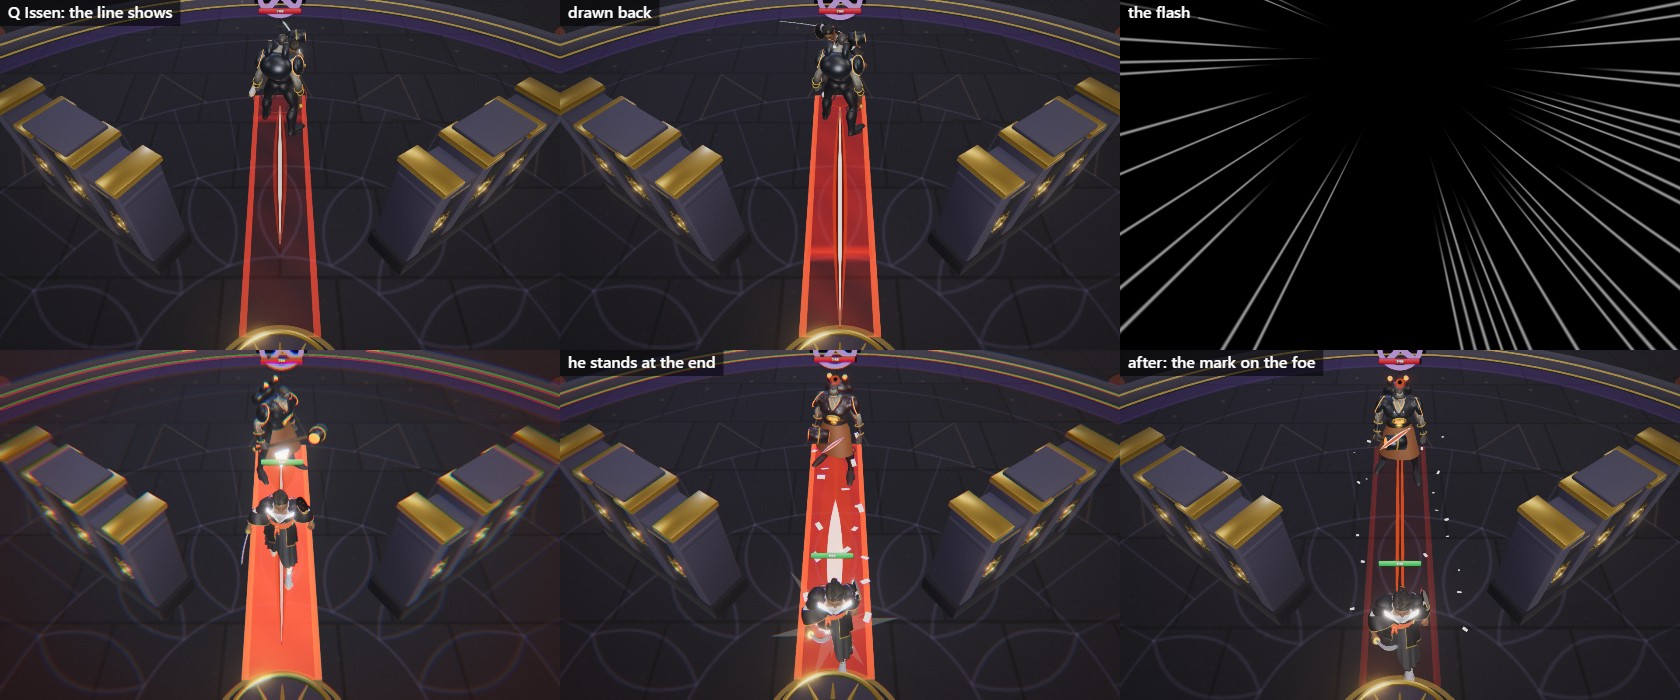
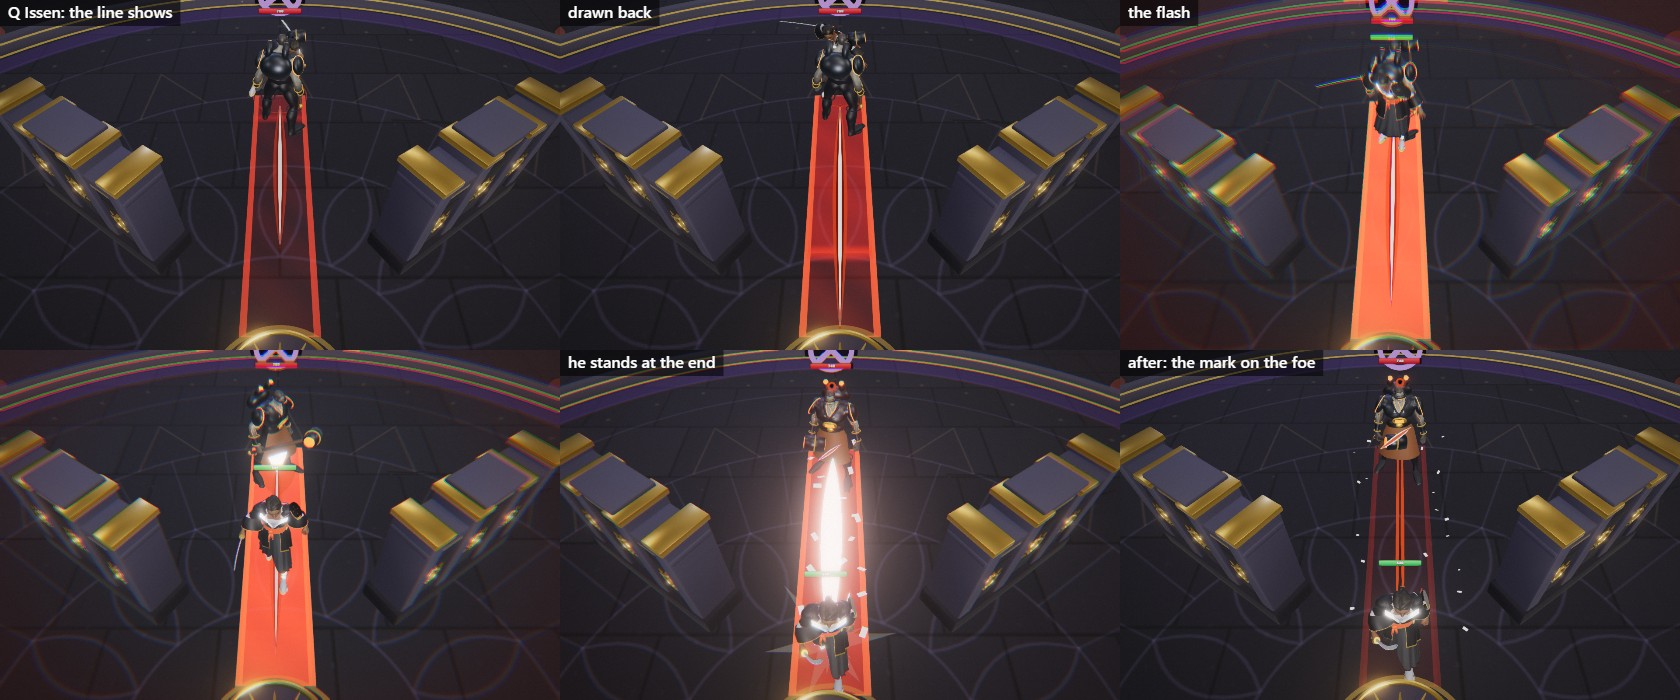
Kagen: no full-screen frame on Issen and Noto; a brighter longer steel streak, a cinnabar ring pulse at the click

diff --git a/src/heroes/sheath/spells/noto.ts b/src/heroes/sheath/spells/noto.ts
@@ -1,10 +1,10 @@
 import * as THREE from 'three';
-import { ShockRefraction, StarBurst, clearScreenFx, createScreenFx, impactFrameAt } from '../../../effects/parts';
+import { ShockRefraction, StarBurst, clearScreenFx, createScreenFx } from '../../../effects/parts';
 import type { Enemy } from '../../../effects/common';
 import type { Look } from '../../framework/blocks';
 import { spell, type Cast } from '../../framework/spell';
 import { C, W } from '../numbers';
-import { Flecks, GOLD, INK, PAPER, STEEL, Slit, clamp01, easeOut, flatRing } from '../parts';
+import { CINNABAR, Flecks, GOLD, INK, PAPER, STEEL, Slit, clamp01, easeOut, flatRing } from '../parts';
 
 /**
  * Noto, The Click (Kagen's W). No aim: he slides the blade home. A ring of 3.5 m shows round where he stands for 0.5 s, then
@@ -39,6 +39,7 @@ class NotoLook implements Look<null> {
   private ring = flatRing(PAPER, 0.018, false, 4);
   private under = flatRing(INK, 0.05, false, 3);
   private pulse = flatRing(PAPER, 0.03, true, 5);
+  private pulse2 = flatRing(CINNABAR, 0.05, false, 5);
   private guard = new THREE.Mesh(new THREE.RingGeometry(1.1, 1.17, 40, 1, -1.15, 2.3).rotateX(-Math.PI / 2), new THREE.MeshBasicMaterial({ color: PAPER.clone(), transparent: true, opacity: 0, depthWrite: false, side: THREE.DoubleSide }));
   private tickMat = new THREE.MeshBasicMaterial({ color: PAPER.clone(), transparent: true, opacity: 0, depthWrite: false, side: THREE.DoubleSide });
   private ticks = new THREE.Group();
@@ -72,7 +73,7 @@ class NotoLook implements Look<null> {
       this.ticks.add(m);
     }
     this.ticks.visible = false;
-    group.add(this.under.mesh, this.ring.mesh, this.ticks, this.guard, this.pulse.mesh, this.hip.mesh, this.clickStar.mesh, this.shock.mesh, this.flecks.group);
+    group.add(this.under.mesh, this.ring.mesh, this.ticks, this.guard, this.pulse.mesh, this.pulse2.mesh, this.hip.mesh, this.clickStar.mesh, this.shock.mesh, this.flecks.group);
     for (let f = 0; f < MAX_FOES; f++) {
       const holder = new THREE.Group();
       holder.visible = false;
@@ -91,7 +92,7 @@ class NotoLook implements Look<null> {
   reset(c: Cast<null>) {
     clearScreenFx(this.screen);
     this.clicked = false;
-    for (const m of [this.ring, this.under, this.pulse]) m.mesh.visible = false;
+    for (const m of [this.ring, this.under, this.pulse, this.pulse2]) m.mesh.visible = false;
     this.ticks.visible = false;
     this.guard.visible = false;
     this.hip.set(c.from, 0, 0);
@@ -162,6 +163,11 @@ class NotoLook implements Look<null> {
     this.pulse.mesh.position.set(from.x, 0.06, from.z);
     this.pulse.mesh.scale.setScalar(R_OUT + 0.15 + 0.7 * q);
     this.pulse.material.opacity = 0.85 * (1 - q) * (1 - q);
+    const q2 = easeOut((a - 0.03) / 0.3);
+    this.pulse2.mesh.visible = a > 0.03 && a < 0.33;
+    this.pulse2.mesh.position.set(from.x, 0.058, from.z);
+    this.pulse2.mesh.scale.setScalar(R_OUT + 0.05 + 0.5 * q2);
+    this.pulse2.material.opacity = 0.9 * (1 - q2) * (1 - q2);
     this.shock.set(this.v1.set(from.x, 0, from.z), 0.8 + (W.radius + 0.4) * q, 0.05 * (1 - q) * (1 - q));
     // the ring settles back and goes out
     const go = 1 - clamp01(a / 0.25);
@@ -203,8 +209,7 @@ class NotoLook implements Look<null> {
   }
 
   after(c: Cast<null>, t: number) {
-    // One frame of ink at the click: black, he and the cut ones in cinnabar.
-    this.screen.impact = impactFrameAt(t, CLICK_T, [1], 0.035);
+    // No full-screen frame (the ultimate's only): a pulse at the screen's edges.
     this.screen.chroma = t >= CLICK_T ? 0.45 * Math.exp(-(t - CLICK_T) * 12) : 0;
     c.shake *= 0.85;
     if (t >= DONE_T) {

diff --git a/src/heroes/sheath/spells/issen.ts b/src/heroes/sheath/spells/issen.ts
@@ -1,5 +1,5 @@
 import * as THREE from 'three';
-import { StarBurst, clearScreenFx, createScreenFx, impactFrameAt } from '../../../effects/parts';
+import { StarBurst, clearScreenFx, createScreenFx } from '../../../effects/parts';
 import type { Look } from '../../framework/blocks';
 import { spell, type Cast } from '../../framework/spell';
 import { C, Q } from '../numbers';
@@ -106,9 +106,9 @@ class IssenLook implements Look<null> {
     this.glint.set(from, 0, 0);
     this.crouch.mesh.visible = a < 0.1;
     this.crouch.material.opacity = 0.8 * Math.max(0, 1 - a / 0.1);
-    const tail = reach * clamp01((t - GO_T - 0.04) / 0.2) ** 1.5;
-    this.streak.set(from, dir, tail, Math.min(front, reach), 0.42 * (1 - 0.6 * clamp01(a / 0.3)), 0.85, a < 0.3 ? 1 - clamp01((a - 0.12) / 0.18) : 0);
-    this.burn.set(from, dir, 0, Math.min(front, reach), 0.7, LINE_Y, 0.55 * (1 - clamp01(a / 0.3)));
+    const tail = reach * clamp01((t - GO_T - 0.08) / 0.24) ** 1.5;
+    this.streak.set(from, dir, tail, Math.min(front, reach), 0.55 * (1 - 0.5 * clamp01(a / 0.3)), 0.85, a < 0.32 ? 1 - clamp01((a - 0.14) / 0.18) : 0);
+    this.burn.set(from, dir, 0, Math.min(front, reach), 0.9, LINE_Y, 0.6 * (1 - clamp01(a / 0.32)));
     // the line fades into the cut
     const gl = 1 - clamp01(a / 0.12);
     this.guide.set(from, dir, 0.3, reach, 0.08, LINE_Y + 0.02, 0.9 * gl);
@@ -145,8 +145,7 @@ class IssenLook implements Look<null> {
   }
 
   after(c: Cast<null>, t: number) {
-    // One short impact frame at the flash, small: a single frame, black with the figures in steel.
-    this.screen.impact = impactFrameAt(t, GO_T, [1], 0.03);
+    // No full-screen frame (the ultimate's only): a pulse at the screen's edges.
     this.screen.chroma = t >= GO_T ? 0.5 * Math.exp(-(t - GO_T) * 14) : 0;
     c.shake *= 0.85;
     if (t >= DONE_T) {
